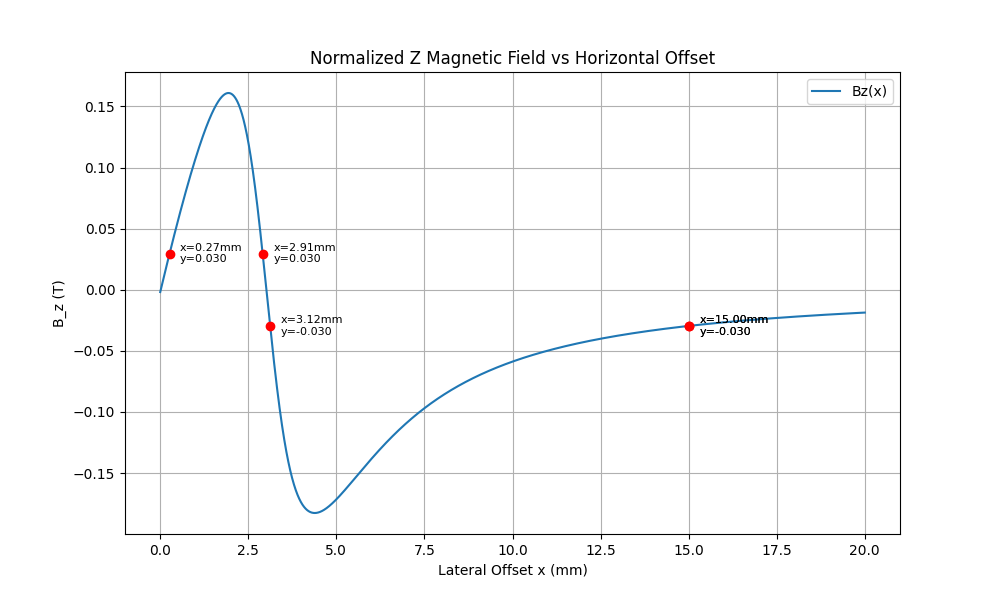
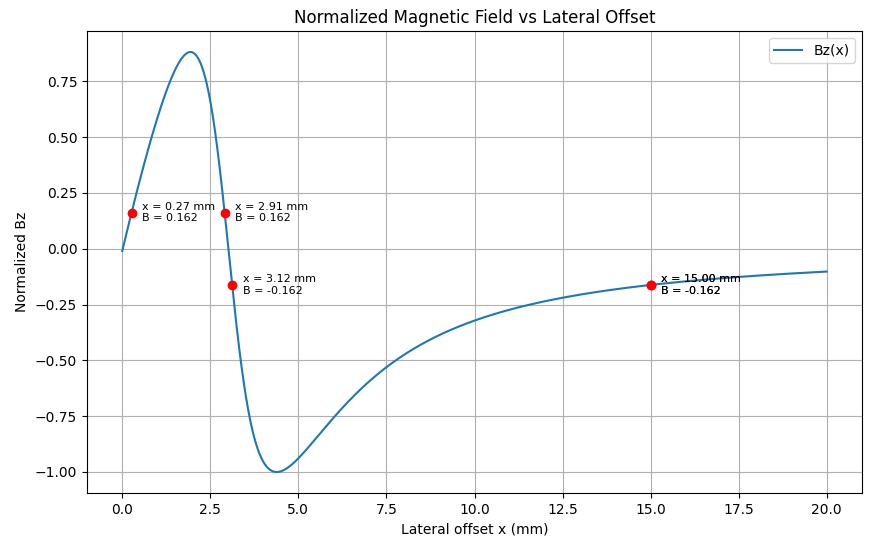
modified code

diff --git a/Chicker/magnetScript/magnetScript.py b/Chicker/magnetScript/magnetScript.py
@@ -2,61 +2,123 @@ import numpy as np
 import matplotlib.pyplot as plt
 from scipy.special import ellipk, ellipe
 
+# ============================
+# Physical constants
+# ============================
+mu0 = 4 * np.pi * 1e-7
+M = 1e6  # magnetization (A/m)
+
+# ============================
 # Magnet geometry
-R = 3e-3
-L = 3e-3
-z0 = 2.5e-3
-M = 1e6
-mu0 = 4*np.pi*1e-7
+# ============================
+R = 3e-3      # radius (m)  -> 6 mm diameter
+L = 3e-3      # thickness (m)
+z0 = 2.5e-3   # sensor height above magnet center (m)
 
-def Bz_exact(r, z):
-    def safe_ellipk(m):
-        return ellipk(m) if m < 1 else ellipk(0.999999999)
-    ztp = z - (+L/2)
-    zbp = z - (-L/2)
-    def f_component(r, zp):
-        denom = (R + r)**2 + zp**2
-        m = 4*R*r / denom if r != 0 else 0.0
-        K = safe_ellipk(m)
-        E = ellipe(m)
-        term1 = ((R - r) / np.sqrt((R - r)**2 + zp**2)) * E if r != R else 0
-        term2 = (R + r) / np.sqrt((R + r)**2 + zp**2)
-        return term1 - term2 * E + zp * K
-    return (mu0 * M / np.pi) * (f_component(r, ztp) - f_component(r, zbp))
+# ============================
+# Spatial domain
+# ============================
+x_vals = np.linspace(0, 20e-3, 5000)
 
-# X-axis offsets
-x_vals = np.linspace(0, 20e-3, 5000)  # high resolution
-Bz_vals = np.array([Bz_exact(x, z0) for x in x_vals])
+# ============================
+# Elliptic-integral kernel
+# ============================
+def f_component(r, zp):
+    denom = (R + r)**2 + zp**2
+    m = 4 * R * r / denom if r != 0 else 0.0
 
-# Threshold magnitude based on experimental 15mm point
+    # numerical safety
+    if m >= 1:
+        m = 0.999999999
+
+    K = ellipk(m)
+    E = ellipe(m)
+
+    term1 = ((R - r) / np.sqrt((R - r)**2 + zp**2)) * E if r != R else 0.0
+    term2 = (R + r) / np.sqrt((R + r)**2 + zp**2)
+
+    return term1 - term2 * E + zp * K
+
+# ============================
+# Pole distances
+# ============================
+ztp = z0 - L / 2   # top face
+zbp = z0 + L / 2   # bottom face
+
+# ============================
+# Field contributions
+# ============================
+B_top = np.array([
+    mu0 * M / np.pi * f_component(x, ztp)
+    for x in x_vals
+])
+
+B_bottom = np.array([
+    mu0 * M / np.pi * f_component(x, zbp)
+    for x in x_vals
+])
+
+# ============================
+# Total field
+# ============================
+B_total = B_top - B_bottom
+
+# ============================
+# Proper normalization
+# ============================
+B_max = np.max(np.abs(B_total))
+B_norm = B_total / B_max
+
+print("Max |B_norm| =", np.max(np.abs(B_norm)))  # should be ~1
+
+# ============================
+# Plot base field
+# ============================
+plt.figure(figsize=(10, 6))
+plt.plot(x_vals * 1e3, B_norm, label="Bz(x)")
+
+# ============================
+# Threshold based on x = 15 mm
+# ============================
 x_ref = 15e-3
-threshold = np.interp(x_ref, x_vals, np.abs(Bz_vals))
+B_ref = np.interp(x_ref, x_vals, np.abs(B_norm))
 
-# Find all crossings using interpolation
+# ============================
+# Find all |B| = threshold crossings
+# ============================
 crossings = []
-for i in range(len(x_vals)-1):
-    if (np.abs(Bz_vals[i]) - threshold) * (np.abs(Bz_vals[i+1]) - threshold) < 0:
-        # linear interpolation to get exact x
-        x_cross = x_vals[i] + (threshold - np.abs(Bz_vals[i])) / (np.abs(Bz_vals[i+1]) - np.abs(Bz_vals[i])) * (x_vals[i+1] - x_vals[i])
-        y_cross = np.interp(x_cross, x_vals, Bz_vals)
+
+for i in range(len(x_vals) - 1):
+    y1 = np.abs(B_norm[i]) - B_ref
+    y2 = np.abs(B_norm[i + 1]) - B_ref
+
+    if y1 * y2 < 0:
+        x_cross = x_vals[i] + (0 - y1) * (x_vals[i+1] - x_vals[i]) / (y2 - y1)
+        y_cross = np.interp(x_cross, x_vals, B_norm)
         crossings.append((x_cross, y_cross))
 
-# Include the original 15mm reference explicitly
-y_ref = np.interp(x_ref, x_vals, Bz_vals)
-crossings.append((x_ref, y_ref))
+# explicitly include the 15 mm reference point
+crossings.append((x_ref, np.interp(x_ref, x_vals, B_norm)))
 
-# Plot
-plt.figure(figsize=(10,6))
-plt.plot(x_vals*1e3, Bz_vals, label='Bz(x)')  
-
-# Mark all threshold points
+# ============================
+# Plot labels and markers
+# ============================
 for x_pt, y_pt in crossings:
-    plt.scatter(x_pt*1e3, y_pt, color='red', zorder=5)
-    plt.text(x_pt*1e3+0.3, y_pt, f'x={x_pt*1e3:.2f}mm\ny={y_pt:.3f}', ha='left', va='center', fontsize=8)
+    plt.scatter(x_pt * 1e3, y_pt, color='red', zorder=6)
+    plt.text(
+        x_pt * 1e3 + 0.3,
+        y_pt,
+        f"x = {x_pt*1e3:.2f} mm\nB = {y_pt:.3f}",
+        fontsize=8,
+        verticalalignment='center'
+    )
 
-plt.xlabel("Lateral Offset x (mm)")
-plt.ylabel("B_z (T)")
-plt.title("Normalized Z Magnetic Field vs Horizontal Offset")
+# ============================
+# Final plot formatting
+# ============================
+plt.xlabel("Lateral offset x (mm)")
+plt.ylabel("Normalized Bz")
+plt.title("Normalized Magnetic Field vs Lateral Offset")
 plt.grid(True)
 plt.legend()
 plt.show()
